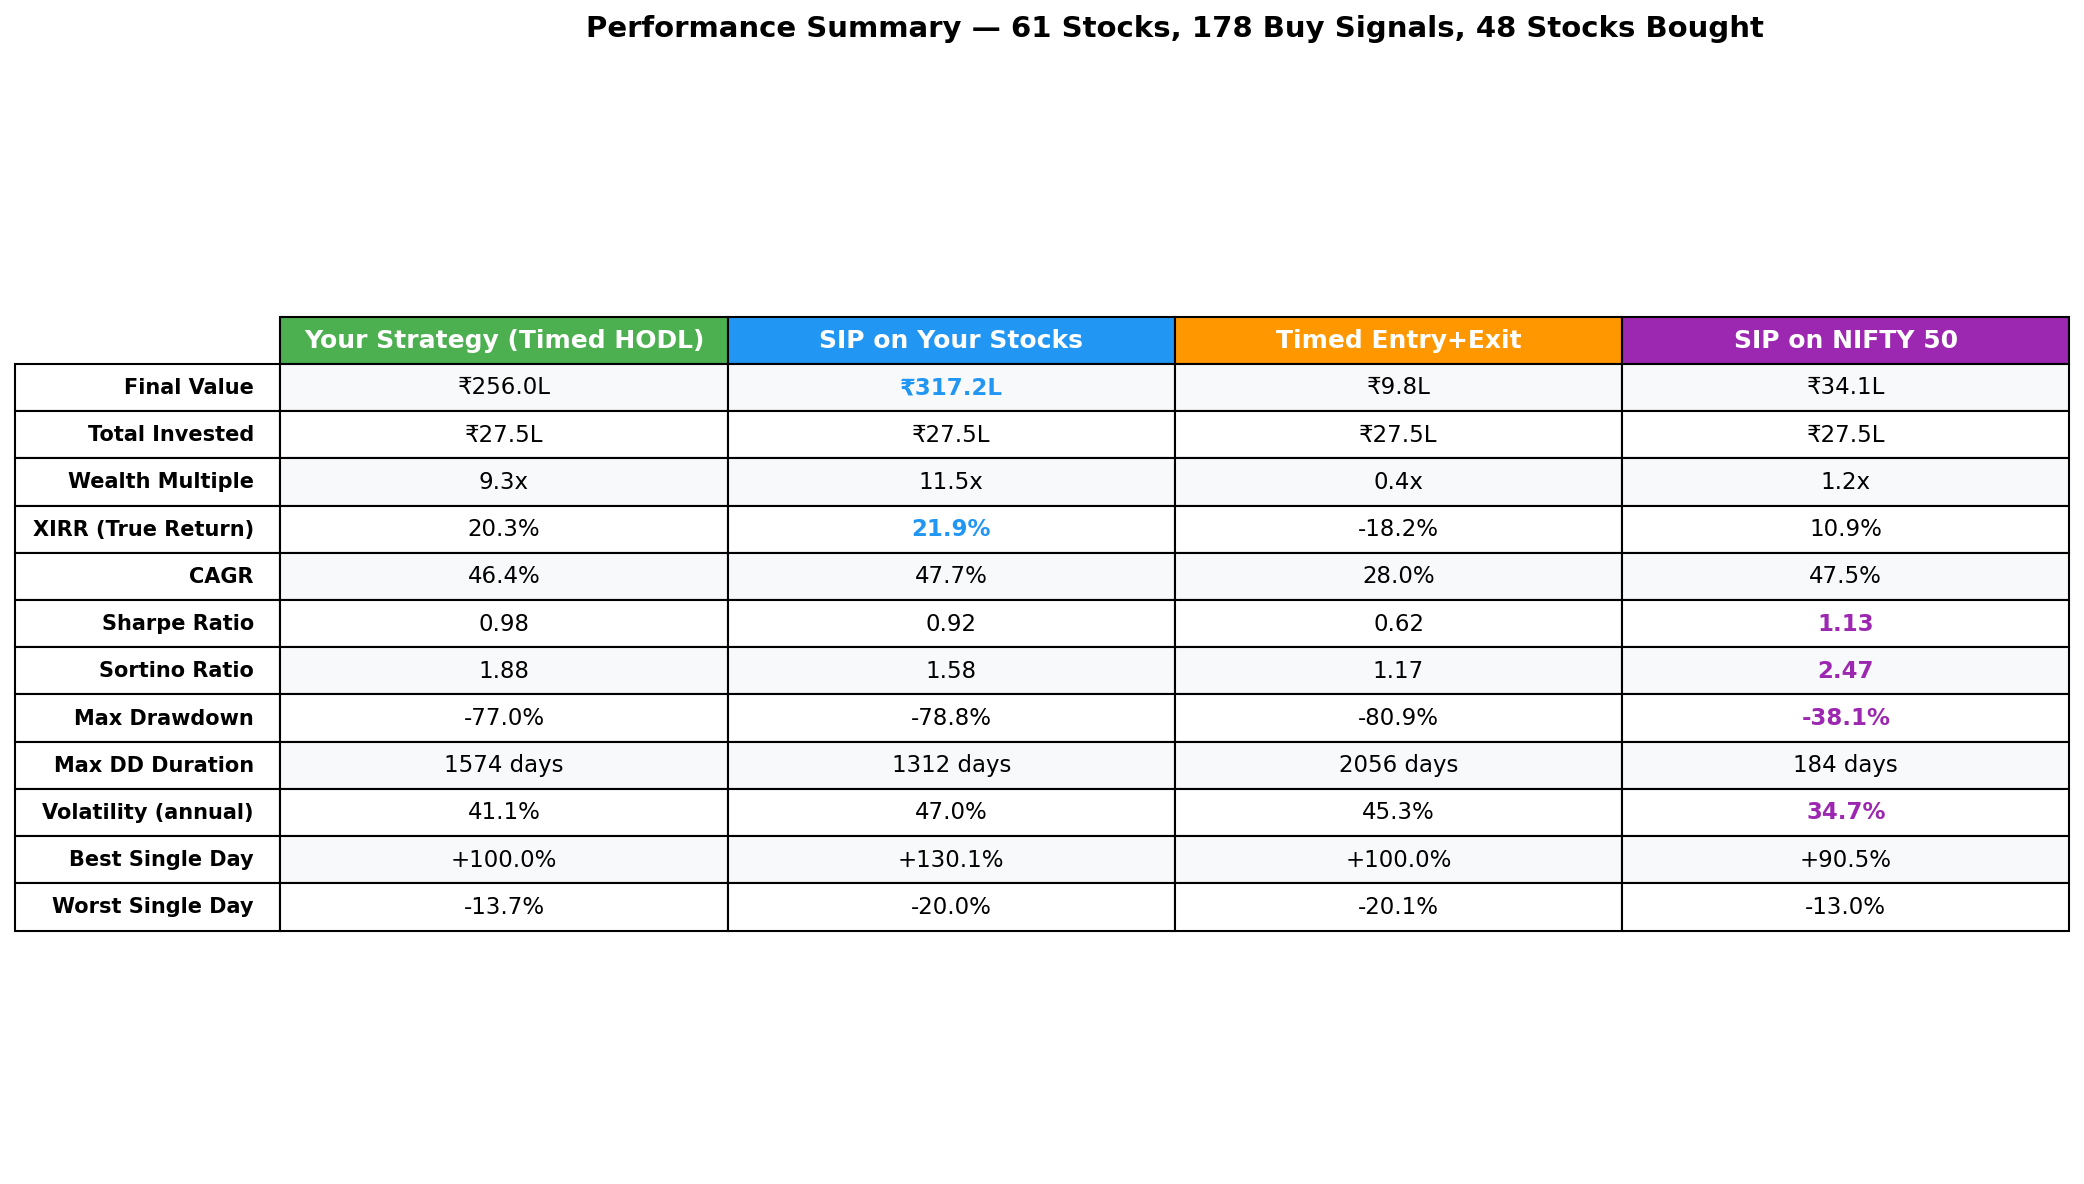
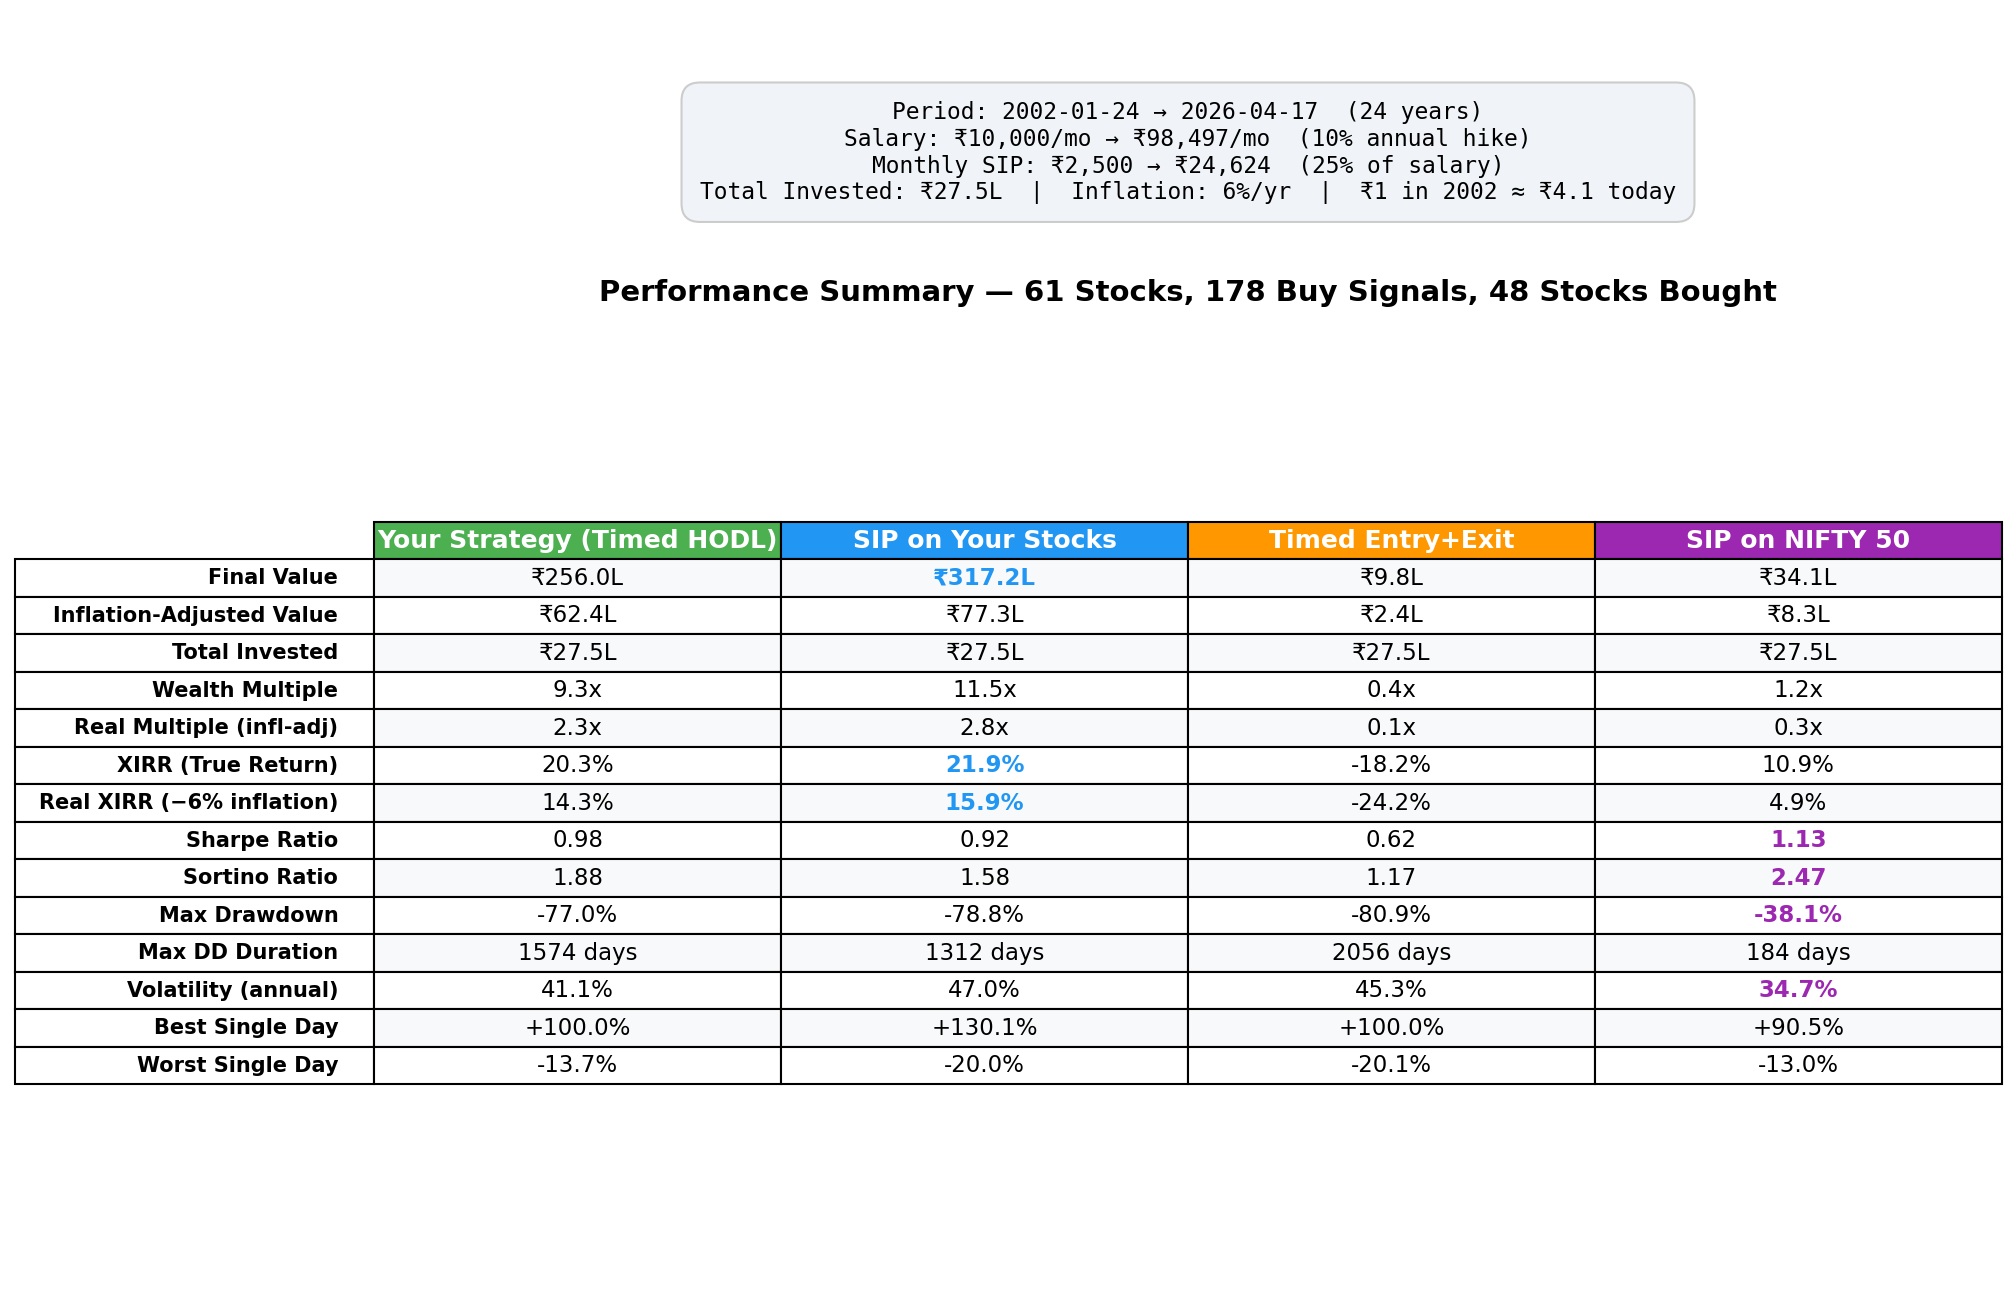
Add investment assumptions, inflation, and real returns to backtest output
Summary table and console now show: salary progression, annual hike,
monthly SIP range, total invested, inflation-adjusted values, and real
XIRR (nominal minus 6% inflation). Chart 8 has assumptions box at top.

diff --git a/backtest.py b/backtest.py
@@ -537,16 +537,36 @@ def chart_7_buy_timeline(buy_log, filename):
     plt.close(fig)
 
 
-def chart_8_summary_table(metrics_list, total_invested, n_stocks, n_signals, n_stocks_bought, filename):
-    fig, ax = plt.subplots(figsize=(14, 8))
+def chart_8_summary_table(metrics_list, total_invested, n_stocks, n_signals, n_stocks_bought, assumptions, filename):
+    a = assumptions
+    fig = plt.figure(figsize=(14, 11))
+    gs = GridSpec(2, 1, height_ratios=[1, 3.5], hspace=0.05)
+
+    ax_top = fig.add_subplot(gs[0])
+    ax_top.axis("off")
+    assumption_text = (
+        f"Period: {a['start_date']} → {a['end_date']}  ({a['years']:.0f} years)\n"
+        f"Salary: ₹{a['start_salary']:,}/mo → ₹{a['end_salary']:,.0f}/mo  ({a['hike_pct']:.0f}% annual hike)\n"
+        f"Monthly SIP: ₹{a['start_monthly_sip']:,.0f} → ₹{a['end_monthly_sip']:,.0f}  ({a['invest_pct']:.0f}% of salary)\n"
+        f"Total Invested: ₹{total_invested/100000:.1f}L  |  Inflation: {a['inflation_rate']:.0f}%/yr  |  "
+        f"₹1 in {a['start_date'].year} ≈ ₹{a['inflation_factor']:.1f} today"
+    )
+    ax_top.text(0.5, 0.5, assumption_text, transform=ax_top.transAxes, fontsize=11,
+                va="center", ha="center", family="monospace",
+                bbox=dict(boxstyle="round,pad=0.8", facecolor="#f0f4f8", edgecolor="#ccc", linewidth=1))
+
+    ax = fig.add_subplot(gs[1])
     ax.axis("off")
 
+    infl = a["inflation_factor"]
     rows = [
         ("Final Value", [f'₹{m["final_value"]/100000:.1f}L' for m in metrics_list]),
+        ("Inflation-Adjusted Value", [f'₹{m["final_value"]/infl/100000:.1f}L' for m in metrics_list]),
         ("Total Invested", [f'₹{total_invested/100000:.1f}L'] * len(metrics_list)),
         ("Wealth Multiple", [f'{m["final_value"]/total_invested:.1f}x' for m in metrics_list]),
+        ("Real Multiple (infl-adj)", [f'{m["final_value"]/infl/total_invested:.1f}x' for m in metrics_list]),
         ("XIRR (True Return)", [f'{m["xirr"]:.1f}%' if not np.isnan(m["xirr"]) else "—" for m in metrics_list]),
-        ("CAGR", [f'{m["cagr"]:.1f}%' for m in metrics_list]),
+        ("Real XIRR (−6% inflation)", [f'{m["xirr"]-a["inflation_rate"]:.1f}%' if not np.isnan(m["xirr"]) else "—" for m in metrics_list]),
         ("Sharpe Ratio", [f'{m["sharpe"]:.2f}' for m in metrics_list]),
         ("Sortino Ratio", [f'{m["sortino"]:.2f}' for m in metrics_list]),
         ("Max Drawdown", [f'{m["max_drawdown"]:.1f}%' for m in metrics_list]),
@@ -565,7 +585,7 @@ def chart_8_summary_table(metrics_list, total_invested, n_stocks, n_signals, n_s
                      cellLoc="center", rowLoc="right", loc="center")
     table.auto_set_font_size(False)
     table.set_fontsize(11)
-    table.scale(1, 1.6)
+    table.scale(1, 1.5)
 
     for j, color in enumerate(colors_header):
         table[0, j].set_facecolor(color)
@@ -576,8 +596,8 @@ def chart_8_summary_table(metrics_list, total_invested, n_stocks, n_signals, n_s
         for j in range(len(col_labels)):
             table[i+1, j].set_facecolor("#f8f9fa" if i % 2 == 0 else "white")
 
-    best_vals = {"Final Value": max, "XIRR (True Return)": max, "Sharpe Ratio": max, "Sortino Ratio": max,
-                 "Max Drawdown": max, "Volatility (annual)": min}
+    best_vals = {"Final Value": max, "XIRR (True Return)": max, "Real XIRR (−6% inflation)": max,
+                 "Sharpe Ratio": max, "Sortino Ratio": max, "Max Drawdown": max, "Volatility (annual)": min}
     for i, (rname, vals) in enumerate(rows):
         if rname in best_vals:
             fn = best_vals[rname]
@@ -585,35 +605,65 @@ def chart_8_summary_table(metrics_list, total_invested, n_stocks, n_signals, n_s
             for v in vals:
                 try: numeric.append(float(v.replace("₹","").replace("L","").replace("x","").replace("%","").replace("days","").replace(",","").replace("—","nan")))
                 except: numeric.append(np.nan)
-            if any(not np.isnan(n) for n in numeric):
-                if rname == "Max Drawdown":
-                    best_j = numeric.index(fn(n for n in numeric if not np.isnan(n)))
-                elif rname == "Volatility (annual)":
-                    best_j = numeric.index(fn(n for n in numeric if not np.isnan(n)))
-                else:
-                    best_j = numeric.index(fn(n for n in numeric if not np.isnan(n)))
+            valid = [n for n in numeric if not np.isnan(n)]
+            if valid:
+                best_j = numeric.index(fn(valid))
                 table[i+1, best_j].set_text_props(fontweight="bold", color=colors_header[best_j])
 
     ax.set_title(f"Performance Summary — {n_stocks} Stocks, {n_signals} Buy Signals, {n_stocks_bought} Stocks Bought",
-                 fontsize=14, fontweight="bold", pad=20)
-    fig.tight_layout()
+                 fontsize=14, fontweight="bold", pad=10)
     fig.savefig(os.path.join(OUTPUT_DIR, filename), dpi=150, bbox_inches="tight")
     plt.close(fig)
 
 
 # ─── Console output ────────────────────────────────────────────────────────
 
-def print_summary(metrics_list, total_invested, n_stocks, n_signals, n_bought, cash_pct):
-    print(f"\n{'═'*80}")
+def compute_investment_assumptions(cfg, dates):
+    start, end = dates[0], dates[-1]
+    years = (end - start).days / 365.25
+    start_monthly = cfg["initial_salary"] * cfg["invest_pct"]
+    end_monthly = cfg["initial_salary"] * (1 + cfg["salary_growth"]) ** int(years) * cfg["invest_pct"]
+    inflation_rate = 0.06
+    inflation_factor = (1 + inflation_rate) ** years
+    return {
+        "years": years,
+        "start_salary": cfg["initial_salary"],
+        "end_salary": cfg["initial_salary"] * (1 + cfg["salary_growth"]) ** int(years),
+        "hike_pct": cfg["salary_growth"] * 100,
+        "invest_pct": cfg["invest_pct"] * 100,
+        "start_monthly_sip": start_monthly,
+        "end_monthly_sip": end_monthly,
+        "inflation_rate": inflation_rate * 100,
+        "inflation_factor": inflation_factor,
+        "start_date": start.date(),
+        "end_date": end.date(),
+    }
+
+def print_summary(metrics_list, total_invested, n_stocks, n_signals, n_bought, cash_pct, assumptions):
+    a = assumptions
+    print(f"\n{'═'*100}")
+    print(f"  INVESTMENT ASSUMPTIONS")
+    print(f"{'─'*100}")
+    print(f"  Period:             {a['start_date']} → {a['end_date']} ({a['years']:.1f} years)")
+    print(f"  Starting salary:    ₹{a['start_salary']:,}/month → ₹{a['end_salary']:,.0f}/month ({a['hike_pct']:.0f}% annual hike)")
+    print(f"  Monthly SIP:        ₹{a['start_monthly_sip']:,.0f} → ₹{a['end_monthly_sip']:,.0f} ({a['invest_pct']:.0f}% of salary)")
+    print(f"  Total invested:     ₹{total_invested/100000:.1f}L over {a['years']:.0f} years")
+    print(f"  Inflation (6%/yr):  ₹{total_invested/100000:.1f}L today = ₹{total_invested/a['inflation_factor']/100000:.1f}L in {int(a['start_date'].year)} rupees")
+    print(f"                      ₹1 in {int(a['start_date'].year)} = ₹{a['inflation_factor']:.1f} today")
+
+    print(f"\n{'═'*100}")
     print(f"  RESULTS — {n_stocks} stocks, ₹{total_invested/100000:.1f}L invested")
-    print(f"{'═'*80}")
+    print(f"{'═'*100}")
     hdr = f"  {'':25s}" + "".join(f" {m['name']:>22s}" for m in metrics_list)
     print(hdr)
-    print(f"  {'─'*75}")
+    print(f"  {'─'*95}")
     rows = [
         ("Final Value", [f"₹{m['final_value']/100000:.1f}L" for m in metrics_list]),
+        ("Inflation-Adj Value", [f"₹{m['final_value']/a['inflation_factor']/100000:.1f}L" for m in metrics_list]),
         ("Wealth Multiple", [f"{m['final_value']/total_invested:.1f}x" for m in metrics_list]),
+        ("Real Multiple (infl-adj)", [f"{m['final_value']/a['inflation_factor']/total_invested:.1f}x" for m in metrics_list]),
         ("XIRR", [f"{m['xirr']:.1f}%" if not np.isnan(m['xirr']) else "—" for m in metrics_list]),
+        ("Real XIRR (minus 6% infl)", [f"{m['xirr']-a['inflation_rate']:.1f}%" if not np.isnan(m['xirr']) else "—" for m in metrics_list]),
         ("Sharpe", [f"{m['sharpe']:.2f}" for m in metrics_list]),
         ("Sortino", [f"{m['sortino']:.2f}" for m in metrics_list]),
         ("Max Drawdown", [f"{m['max_drawdown']:.1f}%" for m in metrics_list]),
@@ -685,7 +735,8 @@ def main():
     metrics_list = [m_timed, m_sip, m_exit]
     if m_nifty: metrics_list.append(m_nifty)
 
-    print_summary(metrics_list, total_invested, len(sig_syms), len(buy_dates), len(stocks_bought), cash_pct)
+    assumptions = compute_investment_assumptions(cfg, dates)
+    print_summary(metrics_list, total_invested, len(sig_syms), len(buy_dates), len(stocks_bought), cash_pct, assumptions)
 
     print(f"\n  Generating charts...")
     chart_1_equity(portfolios, nifty_series, total_invested, "1_equity_curves.png")
@@ -695,7 +746,7 @@ def main():
     chart_5_rolling_alpha(portfolios, "5_rolling_alpha.png")
     chart_6_buy_distribution(buy_log, len(sig_syms), "6_buy_distribution.png")
     chart_7_buy_timeline(buy_log, "7_buy_timeline.png")
-    chart_8_summary_table(metrics_list, total_invested, len(sig_syms), len(buy_dates), len(stocks_bought), "8_summary_table.png")
+    chart_8_summary_table(metrics_list, total_invested, len(sig_syms), len(buy_dates), len(stocks_bought), assumptions, "8_summary_table.png")
 
     charts = sorted(f for f in os.listdir(OUTPUT_DIR) if f.endswith(".png"))
     print(f"\n  {len(charts)} charts saved to {OUTPUT_DIR}/:")

diff --git a/README.md b/README.md
@@ -141,17 +141,30 @@ python3 backtest.py
 
 Generates 8 charts in `backtest_output/` + console summary.
 
-### Latest Results (61 stocks, 2002–2026, ₹27.5L invested)
+### Latest Results (61 stocks, 2002–2026)
 
 ```
-════════════════════════════════════════════════════════════════════════════════
+════════════════════════════════════════════════════════════════════════════════════════════════════
+  INVESTMENT ASSUMPTIONS
+────────────────────────────────────────────────────────────────────────────────────────────────────
+  Period:             2002-01-24 → 2026-04-17 (24.2 years)
+  Starting salary:    ₹10,000/month → ₹98,497/month (10% annual hike)
+  Monthly SIP:        ₹2,500 → ₹24,624 (25% of salary)
+  Total invested:     ₹27.5L over 24 years
+  Inflation (6%/yr):  ₹27.5L today = ₹6.7L in 2002 rupees
+                      ₹1 in 2002 = ₹4.1 today
+
+════════════════════════════════════════════════════════════════════════════════════════════════════
   RESULTS — 61 stocks, ₹27.5L invested
-════════════════════════════════════════════════════════════════════════════════
+════════════════════════════════════════════════════════════════════════════════════════════════════
                             Your Strategy (Timed HODL)     SIP on Your Stocks       Timed Entry+Exit        SIP on NIFTY 50
-  ───────────────────────────────────────────────────────────────────────────
+  ───────────────────────────────────────────────────────────────────────────────────────────────
   Final Value                              ₹256.0L                ₹317.2L                  ₹9.8L                 ₹34.1L
+  Inflation-Adj Value                       ₹62.4L                 ₹77.3L                  ₹2.4L                  ₹8.3L
   Wealth Multiple                             9.3x                  11.5x                   0.4x                   1.2x
+  Real Multiple (infl-adj)                    2.3x                   2.8x                   0.1x                   0.3x
   XIRR                                       20.3%                  21.9%                 -18.2%                  10.9%
+  Real XIRR (minus 6% infl)                  14.3%                  15.9%                 -24.2%                   4.9%
   Sharpe                                      0.98                   0.92                   0.62                   1.13
   Sortino                                     1.88                   1.58                   1.17                   2.47
   Max Drawdown                              -77.0%                 -78.8%                 -80.9%                 -38.1%
@@ -167,7 +180,9 @@ Generates 8 charts in `backtest_output/` + console summary.
 | Metric | Your Strategy | SIP (same stocks) | NIFTY 50 SIP |
 |---|---|---|---|
 | Final Value | ₹256L | ₹317L | ₹34L |
+| Inflation-Adjusted | ₹62L | ₹77L | ₹8L |
 | XIRR | 20.3% | 21.9% | 10.9% |
+| Real XIRR (−6% inflation) | **14.3%** | 15.9% | 4.9% |
 | Sharpe | **0.98** | 0.92 | 1.13 |
 | Sortino | **1.88** | 1.58 | 2.47 |
 | Max Drawdown | **-77%** | -79% | -38% |
@@ -175,6 +190,7 @@ Generates 8 charts in `backtest_output/` + console summary.
 
 - **Both strategies crush NIFTY 50 by ~10x** — stock picking matters more than timing
 - **SIP wins on absolute returns** (+19% more), **Timed HODL wins on risk-adjusted metrics** (higher Sharpe, Sortino, lower volatility)
+- **Real returns beat inflation easily** — 14.3% real XIRR for Timed HODL vs 4.9% for NIFTY 50
 - **Cash drag is only 6.8%** — 60+ stocks keep money deployed
 - **Entry+Exit is terrible** — selling on MACD Sell destroys compounding
 
